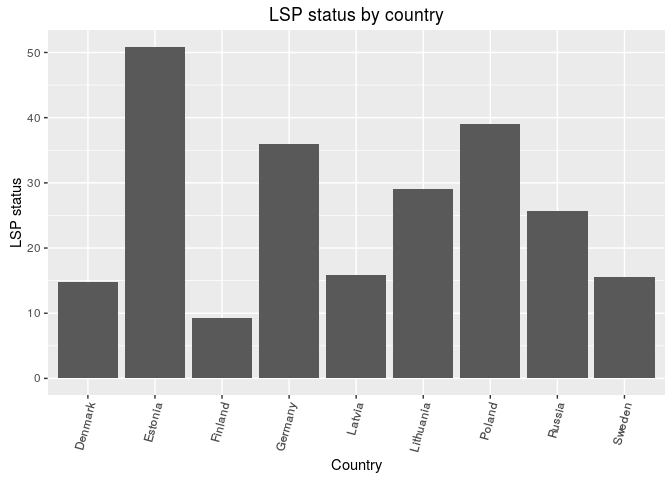
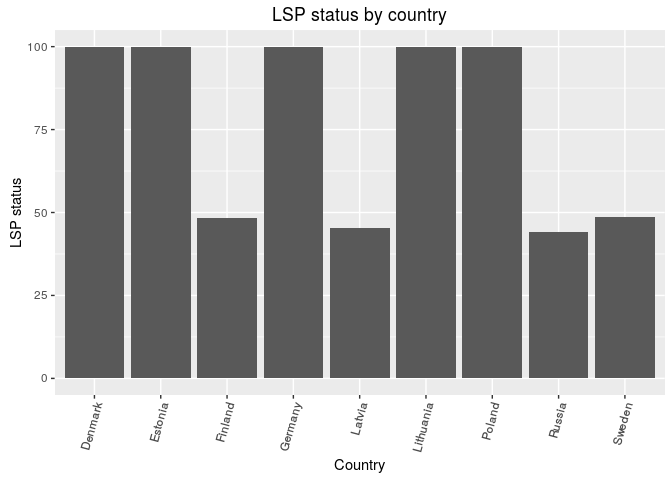
updated lsp_prep figures

diff --git a/baltic2015/prep/LSP/lsp_prep.md b/baltic2015/prep/LSP/lsp_prep.md
@@ -235,7 +235,8 @@ eez_data = mpa_mgmt_with_wt %>%
                  dplyr::select( -total_eez_km2)
   
 
-### calculating cumulative_mpa_area*weight, by country, by year 
+### calculating cumulative mpa_area*weight, per country per year:
+### cumulative_sum (weight * mpa_area_km2)
 
 cum_mpa_area_wt = mpa_mgmt_with_wt %>%
                  dplyr::select(BSPA_ID, BHI_ID, weight, country, mpa_area_km2, year = date_est) %>%
@@ -247,7 +248,8 @@ cum_mpa_area_wt = mpa_mgmt_with_wt %>%
                  mutate(cum_mpa_wt = cumsum(sum_mpa_wt)) %>%
                  ungroup()
 
-### caculating status per country per year
+### caculating status per country per year: 
+### cumulative_sum (weight * mpa_area_km2) / ref_point
 
 status_per_year_by_country = full_join(cum_mpa_area_wt, eez_data, by = 'country') %>% 
   group_by(country, year) %>%
